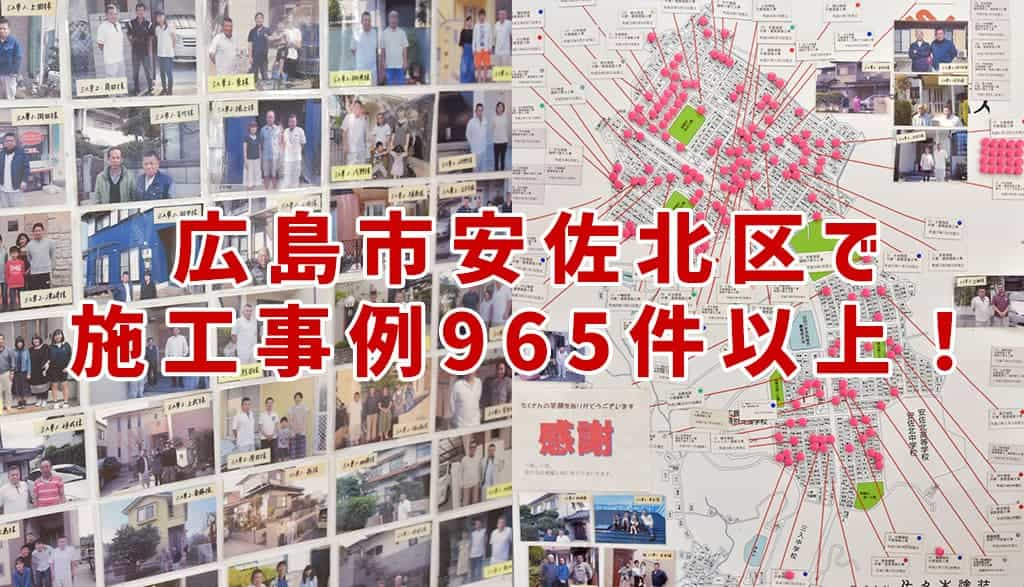
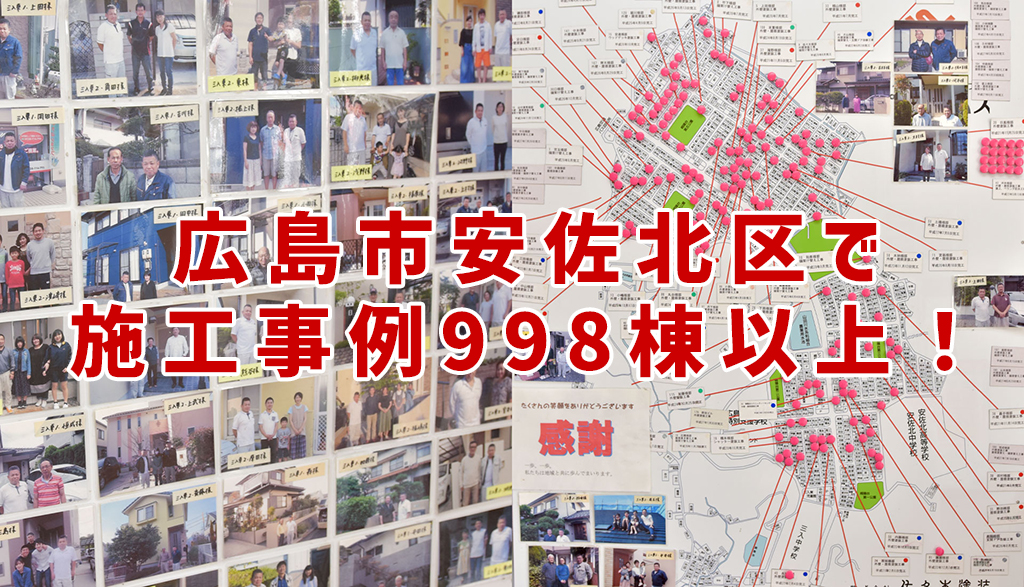
トップ口コミ、事例件数変更、サイドナビ調整

diff --git a/src/components/Kuchikomi.js b/src/components/Kuchikomi.js
@@ -14,11 +14,13 @@ const kuchikomi = () => {
             </div>                
             <div className="kuchikomi_title_r">
               <h3>佐々木塗装の口コミ<br />
-              総合評価:4.7<span className="g_kuchi_star">★★★★★</span> <br className="smp" />口コミ数:38</h3>
+              総合評価:4.7<span className="g_kuchi_star">★★★★★</span> <br className="smp" />口コミ数:39</h3>
             </div>
           </div>
         
           <ul className="kuchikomi_box">
+          <li><span className="star">★★★★★</span> <span className="bold">2023/7/11 エルモ様</span><br />
+          外壁・室内がとても綺麗になり満足してます。　社長さんはじめ社員さん、職人さんに親切にしていただき嬉しかったです。有り難うございました。</li>
             <li><span className="star">★★★★☆</span> <span className="bold">2023/5/20 大上時美様</span><br />
             しかっり、いい仕事をしてもらいました。感謝してます。</li>
             <li><span className="star">★★★★★</span> <span className="bold">2023/5/5 柴犬リキ様</span><br />

diff --git a/src/pages/index.js b/src/pages/index.js
@@ -100,12 +100,12 @@ export default function index({ data }) {
             
             <img src="../images/works_bg02.jpg" width={1920} height={1100} className='works_bg' loading="lazy" alt="施工事例イメージ" />
             
-            <StaticImage src="../images/works_bg02_smp.jpg" width={375} height={215} alt="広島市安佐北区で施工事例913件以上!" className="smp2" loading="lazy" />
+            <StaticImage src="../images/works_bg02_smp.jpg" width={375} height={215} alt="広島市安佐北区で施工事例998棟以上!" className="smp2" loading="lazy" />
             
             <div className="works_inner">
 
               <h4 className="center tub2 mtb3p">
-                <img src="../images/works_txt01.png" width={680} height={180} alt="広島市安佐北区で施工事例913件以上!" loading="lazy" />
+                <img src="../images/works_txt01.png" width={680} height={180} alt="広島市安佐北区で施工事例998棟以上!" loading="lazy" />
               </h4>
 
               <div>

diff --git a/src/css/main.scss b/src/css/main.scss
@@ -2847,20 +2847,34 @@ form label {
 
 .slide-in-element {
 	position: fixed;
-	right: -200px; /* スライドイン前の位置 */
+	right: -800px; /* スライドイン前の位置 */
 	bottom: 0;
-	background-color: #000;
-	color: #fff;
 	transition: right 0.3s ease-in-out;
 	z-index: 100;
-  }
+	@media screen and (max-width:768px){
+		width: 100%;
+	}
+	ul {
+		@media screen and (max-width:768px){
+			display: flex;
+			flex-wrap: wrap;
+		}
+		li {
+			@media screen and (max-width:768px){
+				width: calc(100% /2);
+			}
+		}
+
+	}
+
+}
   
-  .slide-in-element.visible {
+.slide-in-element.visible {
 	right: 0; /* スライドイン後の位置 */
 	bottom: 0;
-  }
+}
 
-  .scroll-to-top {
+.scroll-to-top {
 	position: fixed;
 	bottom: 0px;
 	right: 45px;
@@ -2877,11 +2891,11 @@ form label {
 	transition: opacity 0.3s ease-in-out;
 	z-index: 100;
 	cursor:pointer;
-  }
+}
   
   
-  .scroll-to-top.visible {
+.scroll-to-top.visible {
 	opacity: 1;
 	&:hover { opacity: 0.5;}
-  }
+}
   

diff --git a/src/css/kuchikomi.scss b/src/css/kuchikomi.scss
@@ -26,7 +26,7 @@
 .kuchikomi_title { background-color: #ff7415; padding: 15px; display: flex; flex-wrap: wrap; margin: 0; }
 .kuchikomi_title_r h3 { font-size: 180%; color: #fff;}
 
-.kuchikomi_box { height: 400px; border:solid 1px #ccc; padding: 3%; overflow-y: scroll; margin: 0 0 3% 0; counter-reset: number 39; }
+.kuchikomi_box { height: 400px; border:solid 1px #ccc; padding: 3%; overflow-y: scroll; margin: 0 0 3% 0; counter-reset: number 40; }
 .kuchikomi_box li { border-bottom: dashed 1px #ccc; margin-bottom: 15px; padding-bottom: 15px; }
 .kuchikomi_box li::before{
 	counter-increment: number -1;
